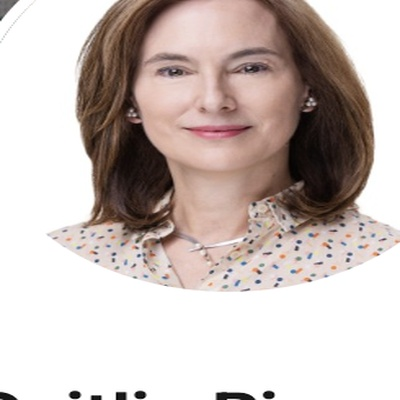
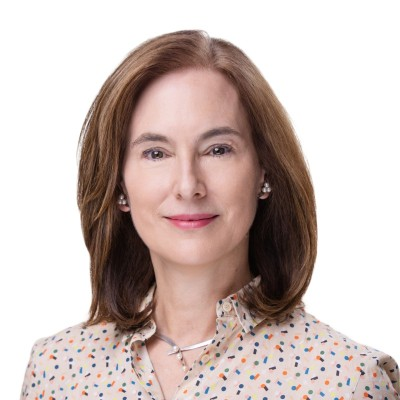
Add careers page and update team photos
- Create careers.html as standalone page with full careers content
- Replace Marcelo and Caitlin photos with higher-quality versions
- Move Careers nav link from inline section to separate careers.html

diff --git a/careers.html b/careers.html
@@ -1,0 +1,180 @@
+<!DOCTYPE html>
+<html lang="en">
+<head>
+  <meta charset="UTF-8" />
+  <meta name="viewport" content="width=device-width, initial-scale=1.0" />
+  <title>Careers — Waterview Partners</title>
+  <link href="https://fonts.googleapis.com/css2?family=Montserrat:wght@300;400;500;600;700;800;900&display=swap" rel="stylesheet" />
+  <style>
+    *, *::before, *::after { margin: 0; padding: 0; box-sizing: border-box; }
+    :root { --navy: #1B2D3F; --cream: #EDE8DF; }
+    html { scroll-behavior: smooth; }
+    body { font-family: 'Montserrat', sans-serif; background: var(--cream); color: var(--navy); overflow-x: hidden; }
+
+    nav {
+      position: fixed; top: 0; left: 0; right: 0; z-index: 999;
+      display: flex; align-items: center; justify-content: space-between;
+      padding: 1.1rem 4rem;
+      background: rgba(237,232,223,0.92); backdrop-filter: blur(14px);
+      border-bottom: 1px solid rgba(27,45,63,0.08);
+    }
+    .nav-brand {
+      text-decoration: none; font-size: 0.72rem; font-weight: 800;
+      letter-spacing: 0.22em; color: var(--navy); text-transform: uppercase;
+    }
+    .nav-links { list-style: none; display: flex; gap: 2.5rem; }
+    .nav-links a {
+      text-decoration: none; font-size: 0.68rem; font-weight: 700;
+      letter-spacing: 0.14em; text-transform: uppercase; color: var(--navy);
+      opacity: 0.55; transition: opacity 0.2s;
+    }
+    .nav-links a:hover, .nav-links a.active { opacity: 1; }
+
+    .page-wrap { max-width: 760px; margin: 0 auto; padding: 10rem 2rem 7rem; }
+
+    .eyebrow {
+      font-size: 0.65rem; font-weight: 800; letter-spacing: 0.28em;
+      text-transform: uppercase; opacity: 0.38; margin-bottom: 1.2rem;
+    }
+    .rule { width: 48px; height: 2px; background: var(--navy); margin-bottom: 2.8rem; opacity: 0.25; }
+
+    .careers-intro {
+      font-size: 2.4rem; font-weight: 300; color: var(--navy);
+      line-height: 1.25; margin-bottom: 2.5rem;
+    }
+    .lead {
+      font-size: 0.95rem; font-weight: 300; line-height: 1.95;
+      color: rgba(27,45,63,0.72); margin-bottom: 1.3rem;
+    }
+    .lead strong { font-weight: 700; color: var(--navy); }
+
+    .section-divider {
+      font-size: 0.68rem; font-weight: 800; letter-spacing: 0.22em;
+      text-transform: uppercase; color: var(--navy);
+      margin-top: 3.5rem; margin-bottom: 1.6rem;
+      padding-bottom: 0.9rem;
+      border-bottom: 1px solid rgba(27,45,63,0.12);
+    }
+
+    .why-box {
+      background: var(--navy); padding: 3.5rem 4rem;
+      margin-top: 4rem;
+    }
+    .why-title {
+      font-size: 1.2rem; font-weight: 700; color: var(--cream);
+      letter-spacing: 0.04em; margin-bottom: 2rem;
+    }
+    .why-box p {
+      font-size: 0.95rem; font-weight: 300; line-height: 1.95;
+      color: rgba(237,232,223,0.72); margin-bottom: 1.3rem;
+    }
+    .why-box p:last-child { margin-bottom: 0; }
+
+    .cta-row {
+      margin-top: 4rem; padding-top: 3rem;
+      border-top: 1px solid rgba(27,45,63,0.1);
+      display: flex; align-items: center; gap: 2rem; flex-wrap: wrap;
+    }
+    .cta-label {
+      font-size: 0.65rem; font-weight: 800; letter-spacing: 0.2em;
+      text-transform: uppercase; opacity: 0.4;
+    }
+    .cta-email {
+      font-size: 0.95rem; font-weight: 500; color: var(--navy);
+      text-decoration: none;
+      border-bottom: 1px solid rgba(27,45,63,0.2); padding-bottom: 2px;
+      transition: border-color 0.2s;
+    }
+    .cta-email:hover { border-color: var(--navy); }
+
+    footer {
+      background: var(--navy); padding: 1.8rem 4rem;
+      display: flex; align-items: center; justify-content: space-between;
+    }
+    .f-brand { font-size: 0.65rem; font-weight: 800; letter-spacing: 0.2em; text-transform: uppercase; color: rgba(237,232,223,0.3); }
+    .f-copy { font-size: 0.62rem; color: rgba(237,232,223,0.2); letter-spacing: 0.06em; }
+
+    @media (max-width: 720px) {
+      nav { padding: 1rem 1.5rem; }
+      .nav-links { display: none; }
+      .page-wrap { padding: 8rem 1.5rem 5rem; }
+      .why-box { padding: 2.5rem 2rem; }
+      footer { flex-direction: column; gap: 0.5rem; text-align: center; }
+    }
+  </style>
+</head>
+<body>
+
+  <nav>
+    <a class="nav-brand" href="index.html">Waterview Partners</a>
+    <ul class="nav-links">
+      <li><a href="index.html#mission">Mission</a></li>
+      <li><a href="index.html#about">Team</a></li>
+      <li><a href="index.html#portfolio">Portfolio</a></li>
+      <li><a href="careers.html" class="active">Careers</a></li>
+      <li><a href="index.html#contact">Contact</a></li>
+    </ul>
+  </nav>
+
+  <div class="page-wrap">
+    <p class="eyebrow">Careers</p>
+    <div class="rule"></div>
+
+    <h1 class="careers-intro">You Know Who You Are</h1>
+
+    <p class="lead">Exceptional people rarely need to be told they are exceptional.</p>
+    <p class="lead">They have spent years earning trust, developing expertise, and consistently delivering results in environments where expectations are high, standards are uncompromising, and sustained excellence is the baseline.</p>
+    <p class="lead">If that describes you, and you are ready to help build category-defining companies in industries that matter, we encourage you to reach out to the founders directly.</p>
+    <p class="lead">Waterview Partners builds companies in Space Technology, Semiconductors, Artificial Intelligence, Robotics, Advanced Manufacturing, Defense &amp; Autonomous Systems, Specialty Chemicals, and Advanced Materials.</p>
+    <p class="lead">These are not incremental industries.</p>
+    <p class="lead">They are the strategic industries North America allowed to migrate elsewhere. Industries it is only now beginning to rebuild, driven by supply chain resilience, cost competitiveness, and national security imperatives.</p>
+    <p class="lead">We are looking for two types of people.</p>
+
+    <div class="section-divider">(I) Industry Subject Matter Experts</div>
+
+    <p class="lead">Space Technology. Semiconductors. Artificial Intelligence. Robotics. Advanced Manufacturing. Defense &amp; Autonomous Systems. Specialty Chemicals. Advanced Materials.</p>
+    <p class="lead">You have 15 or more years of deep operating experience in one of these sectors. People in your industry take your calls.</p>
+    <p class="lead">You have built products, led organizations, run operations, commercialized technologies, developed markets, or closed transformative transactions. You have technical credibility, commercial judgment, and relationships that cannot be replicated.</p>
+    <p class="lead">You understand your industry inside and out. Not from advising it. From building within it. You have lived it. You carry the judgment, the scars, the credibility, and the network that only years inside an industry can create.</p>
+    <p class="lead">You bring technical depth and business development capability in equal measure. You know the customers, suppliers, partners, regulators, and decision-makers who shape your sector.</p>
+    <p class="lead"><strong>Critical:</strong> You are comfortable operating in high-performance environments alongside professionals from private equity, venture capital, investment banking, Big Law, and management consulting. You understand the responsiveness, urgency, accountability, and standards of excellence these environments demand. You are proactive, highly responsive, and execution-oriented. You anticipate issues before they arise, communicate clearly, and consistently move initiatives from discussion to completion.</p>
+    <p class="lead">You do not wait to be told what to do. You identify opportunities, solve problems, and drive outcomes.</p>
+    <p class="lead">Most importantly, you are ready to apply your expertise to building something of your own.</p>
+
+    <div class="section-divider">(II) Investment &amp; Transaction Professionals</div>
+
+    <p class="lead">You have spent 10 or more years at an elite institution. Private equity, venture capital, investment banking, Big Law, management consulting or a similarly rigorous environment.</p>
+    <p class="lead">You have already received the training. You do not need handholding.</p>
+    <p class="lead">You can walk into a complex situation, quickly identify what matters, exercise sound judgment, and execute with limited supervision. You are comfortable operating in ambiguity, managing multiple workstreams simultaneously, and solving problems that have no predefined answers.</p>
+    <p class="lead">You can review a two-page memorandum, surface the critical issues in minutes, and drive toward resolution. You are comfortable coordinating investment bankers, government officials, accountants, consultants, and legal counsel across jurisdictions, managing complex transactions and negotiating against world-class counterparties.</p>
+    <p class="lead">Your written communication and email etiquette is impeccable. Your judgment is sound. Your follow-through is total.</p>
+    <p class="lead">You are commercially minded, intellectually honest, highly responsive, and relentlessly accountable. You build trust with founders, executives, investors, government officials, lenders, and industry leaders. You know how to align stakeholders and get things done.</p>
+    <p class="lead">You bring energy to the team, not drama. You leave your ego at the door, focus on the objective, and execute at a consistently high level.</p>
+    <p class="lead">Experience in New York, Los Angeles, Silicon Valley, London, or similarly demanding markets is strongly preferred.</p>
+
+    <div class="why-box">
+      <p class="why-title">Why Waterview Partners</p>
+      <p>At some point, many exceptional people stop finding large institutions fulfilling.</p>
+      <p>The compensation is attractive. The title is prestigious. The platform is world-class. But you already know you can do more. You just need the right vehicle.</p>
+      <p>If you are looking for another corporate ladder to climb, we are not the right fit.</p>
+      <p>We are looking for proven professionals who can sit across the table from CEOs, investors, founders, government officials, lenders, and industry leaders and immediately add value.</p>
+      <p>People who can build.</p>
+      <p>We move quickly. We expect excellence. We value judgment, accountability, intellectual curiosity, resilience, and a founder's mentality.</p>
+      <p>This is not for everyone.</p>
+      <p>But if you have spent the last decade proving yourself inside the world's best institutions and you are ready to build category-defining companies from the ground up, we would like to hear from you.</p>
+    </div>
+
+    <div class="cta-row">
+      <span class="cta-label">Reach out directly</span>
+      <a class="cta-email" href="mailto:[email redacted]">[email redacted]</a>
+      <a class="cta-email" href="mailto:[email redacted]">[email redacted]</a>
+    </div>
+  </div>
+
+  <footer>
+    <span class="f-brand">Waterview Partners</span>
+    <span class="f-copy">&copy; 2026 Waterview Partners. All rights reserved.</span>
+  </footer>
+
+</body>
+</html>

diff --git a/index.html b/index.html
@@ -209,7 +209,7 @@
       width: 100%;
       height: 100%;
       object-fit: cover;
-      object-position: center top;
+      object-position: center center;
     }
     .avatar-initials {
       width: 110px;
@@ -306,67 +306,7 @@
     }
     .np-link:hover { opacity: 1; }
 
-    /* ── SECTION 5 — CAREERS ─────────────────────── */
-    #careers {
-      background: var(--cream);
-      padding: 7rem 0;
-      min-height: auto;
-    }
-    .careers-intro {
-      font-size: 1.35rem;
-      font-weight: 300;
-      color: var(--navy);
-      line-height: 1.5;
-      margin-bottom: 3rem;
-      max-width: 680px;
-    }
-    .careers-lead {
-      font-size: 0.92rem;
-      font-weight: 300;
-      line-height: 1.95;
-      color: rgba(27,45,63,0.72);
-      margin-bottom: 1.2rem;
-      max-width: 800px;
-    }
-    .careers-lead strong {
-      font-weight: 600;
-      color: var(--navy);
-    }
-    .careers-section-title {
-      font-size: 0.68rem;
-      font-weight: 800;
-      letter-spacing: 0.22em;
-      text-transform: uppercase;
-      color: var(--navy);
-      margin-top: 3rem;
-      margin-bottom: 1.4rem;
-      padding-bottom: 0.8rem;
-      border-bottom: 1px solid rgba(27,45,63,0.12);
-    }
-    .careers-why {
-      background: var(--navy);
-      padding: 3rem 3.5rem;
-      margin-top: 3.5rem;
-      max-width: 800px;
-    }
-    .careers-why p {
-      font-size: 0.92rem;
-      font-weight: 300;
-      line-height: 1.95;
-      color: rgba(237,232,223,0.72);
-      margin-bottom: 1.2rem;
-      max-width: 680px;
-    }
-    .careers-why p:last-child { margin-bottom: 0; }
-    .careers-why-title {
-      font-size: 1.1rem;
-      font-weight: 700;
-      color: var(--cream);
-      margin-bottom: 1.8rem;
-      letter-spacing: 0.04em;
-    }
-
-    /* ── SECTION 6 — CONTACT ─────────────────────── */
+    /* ── SECTION 5 — CONTACT ─────────────────────── */
     #contact {
       background: var(--navy);
       padding: 7rem 0;
@@ -444,7 +384,7 @@
       <li><a href="#mission">Mission</a></li>
       <li><a href="#about">Team</a></li>
       <li><a href="#portfolio">Portfolio</a></li>
-      <li><a href="#careers">Careers</a></li>
+      <li><a href="careers.html">Careers</a></li>
       <li><a href="#contact">Contact</a></li>
     </ul>
   </nav>
@@ -592,59 +532,7 @@
     </div>
   </section>
 
-  <!-- ── SECTION 5 — CAREERS ────────────────────── -->
-  <section id="careers">
-    <div class="inner">
-      <p class="eyebrow">Careers</p>
-      <div class="rule"></div>
-
-      <p class="careers-intro">You Know Who You Are</p>
-
-      <p class="careers-lead">Exceptional people rarely need to be told they are exceptional.</p>
-      <p class="careers-lead">They have spent years earning trust, developing expertise, and consistently delivering results in environments where expectations are high, standards are uncompromising, and sustained excellence is the baseline.</p>
-      <p class="careers-lead">If that describes you, and you are ready to help build category-defining companies in industries that matter, we encourage you to reach out to the founders directly.</p>
-      <p class="careers-lead">Waterview Partners builds companies in Space Technology, Semiconductors, Artificial Intelligence, Robotics, Advanced Manufacturing, Defense &amp; Autonomous Systems, Specialty Chemicals, and Advanced Materials.</p>
-      <p class="careers-lead">These are not incremental industries.</p>
-      <p class="careers-lead">They are the strategic industries North America allowed to migrate elsewhere. Industries it is only now beginning to rebuild, driven by supply chain resilience, cost competitiveness, and national security imperatives.</p>
-      <p class="careers-lead">We are looking for two types of people.</p>
-
-      <div class="careers-section-title">(I) Industry Subject Matter Experts</div>
-
-      <p class="careers-lead">Space Technology. Semiconductors. Artificial Intelligence. Robotics. Advanced Manufacturing. Defense &amp; Autonomous Systems. Specialty Chemicals. Advanced Materials.</p>
-      <p class="careers-lead">You have 15 or more years of deep operating experience in one of these sectors. People in your industry take your calls.</p>
-      <p class="careers-lead">You have built products, led organizations, run operations, commercialized technologies, developed markets, or closed transformative transactions. You have technical credibility, commercial judgment, and relationships that cannot be replicated.</p>
-      <p class="careers-lead">You understand your industry inside and out. Not from advising it. From building within it. You have lived it. You carry the judgment, the scars, the credibility, and the network that only years inside an industry can create.</p>
-      <p class="careers-lead">You bring technical depth and business development capability in equal measure. You know the customers, suppliers, partners, regulators, and decision-makers who shape your sector.</p>
-      <p class="careers-lead"><strong>Critical:</strong> You are comfortable operating in high-performance environments alongside professionals from private equity, venture capital, investment banking, Big Law, and management consulting. You understand the responsiveness, urgency, accountability, and standards of excellence these environments demand. You are proactive, highly responsive, and execution-oriented. You anticipate issues before they arise, communicate clearly, and consistently move initiatives from discussion to completion.</p>
-      <p class="careers-lead">You do not wait to be told what to do. You identify opportunities, solve problems, and drive outcomes.</p>
-      <p class="careers-lead">Most importantly, you are ready to apply your expertise to building something of your own.</p>
-
-      <div class="careers-section-title">(II) Investment &amp; Transaction Professionals</div>
-
-      <p class="careers-lead">You have spent 10 or more years at an elite institution. Private equity, venture capital, investment banking, Big Law, management consulting or a similarly rigorous environment.</p>
-      <p class="careers-lead">You have already received the training. You do not need handholding.</p>
-      <p class="careers-lead">You can walk into a complex situation, quickly identify what matters, exercise sound judgment, and execute with limited supervision. You are comfortable operating in ambiguity, managing multiple workstreams simultaneously, and solving problems that have no predefined answers.</p>
-      <p class="careers-lead">You can review a two-page memorandum, surface the critical issues in minutes, and drive toward resolution. You are comfortable coordinating investment bankers, government officials, accountants, consultants, and legal counsel across jurisdictions, managing complex transactions and negotiating against world-class counterparties.</p>
-      <p class="careers-lead">Your written communication and email etiquette is impeccable. Your judgment is sound. Your follow-through is total.</p>
-      <p class="careers-lead">You are commercially minded, intellectually honest, highly responsive, and relentlessly accountable. You build trust with founders, executives, investors, government officials, lenders, and industry leaders. You know how to align stakeholders and get things done.</p>
-      <p class="careers-lead">You bring energy to the team, not drama. You leave your ego at the door, focus on the objective, and execute at a consistently high level.</p>
-      <p class="careers-lead">Experience in New York, Los Angeles, Silicon Valley, London, or similarly demanding markets is strongly preferred.</p>
-
-      <div class="careers-why">
-        <p class="careers-why-title">Why Waterview Partners</p>
-        <p>At some point, many exceptional people stop finding large institutions fulfilling.</p>
-        <p>The compensation is attractive. The title is prestigious. The platform is world-class. But you already know you can do more. You just need the right vehicle.</p>
-        <p>If you are looking for another corporate ladder to climb, we are not the right fit.</p>
-        <p>We are looking for proven professionals who can sit across the table from CEOs, investors, founders, government officials, lenders, and industry leaders and immediately add value.</p>
-        <p>People who can build.</p>
-        <p>We move quickly. We expect excellence. We value judgment, accountability, intellectual curiosity, resilience, and a founder's mentality.</p>
-        <p>This is not for everyone.</p>
-        <p>But if you have spent the last decade proving yourself inside the world's best institutions and you are ready to build category-defining companies from the ground up, we would like to hear from you.</p>
-      </div>
-    </div>
-  </section>
-
-  <!-- ── SECTION 6 — CONTACT ────────────────────── -->
+  <!-- ── SECTION 5 — CONTACT ────────────────────── -->
   <section id="contact">
     <div class="inner">
       <p class="eyebrow light">Contact</p>